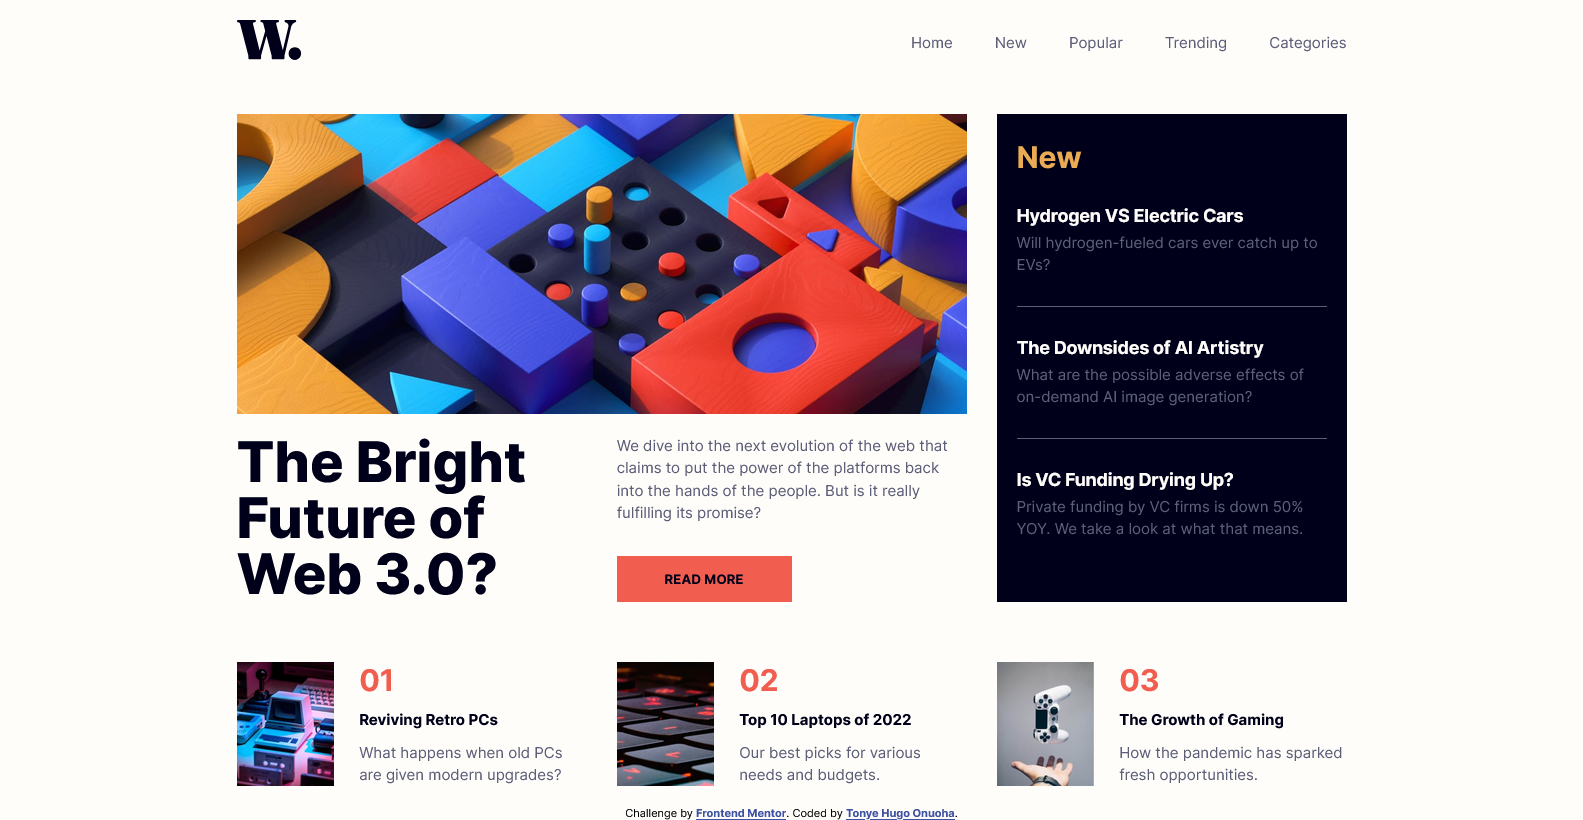
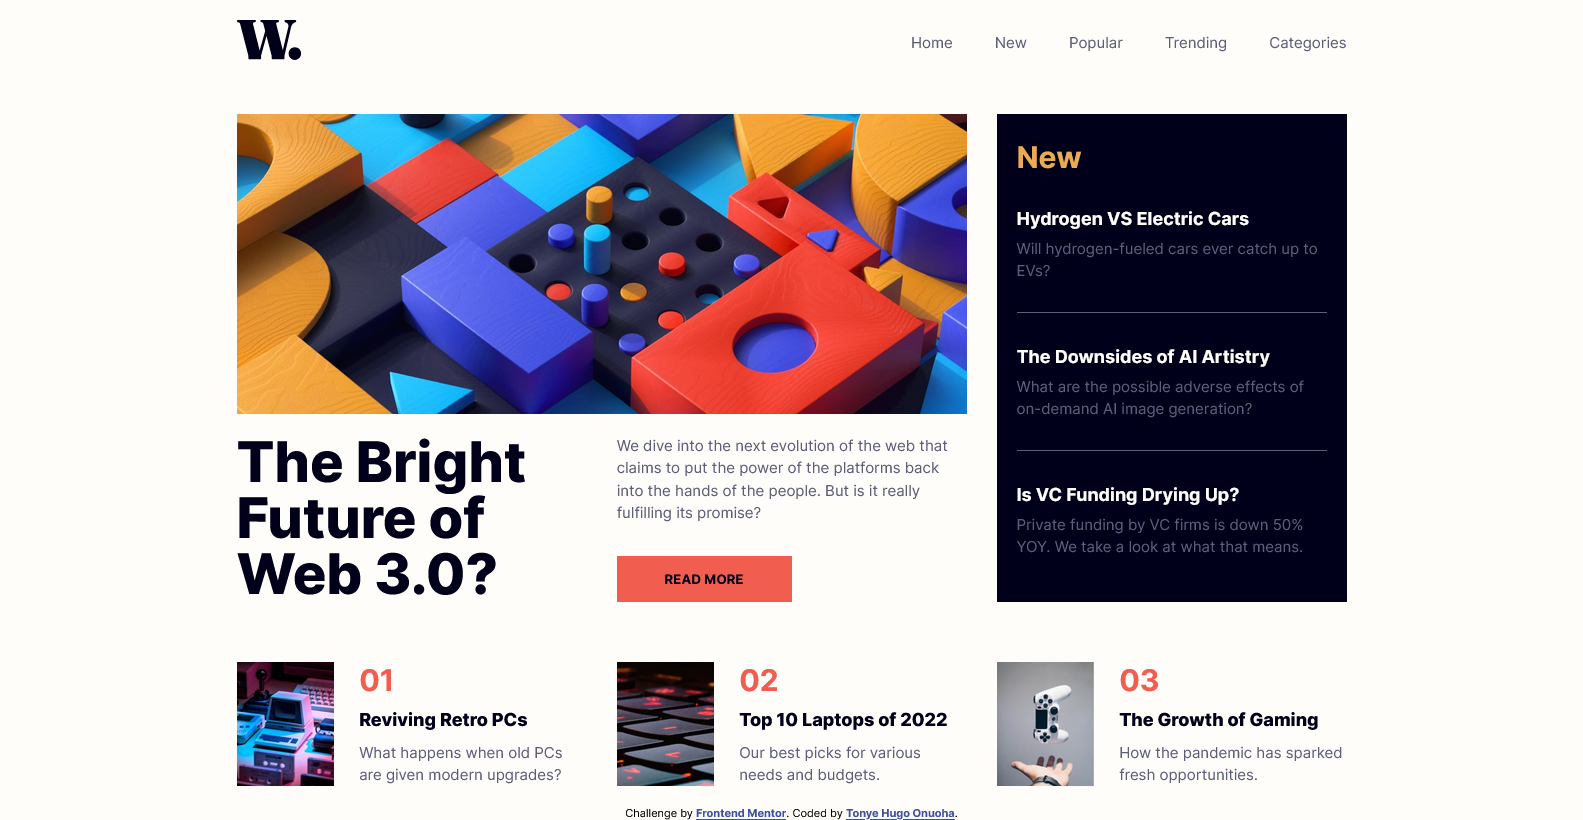
Modified font sizes

diff --git a/index.html b/index.html
@@ -55,7 +55,7 @@
           <div class="web3-image-image-container"></div>
           <div class="main-content-details">
             <div class="main-content-title-container">
-              <h1 class="main-content-title">The Bright Future of Web 3.0?</h1>
+              <p class="main-content-title">The Bright Future of Web 3.0?</p>
             </div>
             <div class="main-content-description">
               <p>
@@ -69,15 +69,15 @@
         <div class="new-content-container">
           <h1 class="new-content-title">New</h1>
           <div class="new-content">
-            <h3 class="new-content-subtitle">Hydrogen VS Electric Cars</h3>
+            <p class="new-content-subtitle">Hydrogen VS Electric Cars</p>
             <p>Will hydrogen-fueled cars ever catch up to EVs?</p>
           </div>
           <div class="new-content">
-            <h3 class="new-content-subtitle">The Downsides of AI Artistry</h3>
+            <p class="new-content-subtitle">The Downsides of AI Artistry</p>
             <p>What are the possible adverse effects of on-demand AI image generation?</p>
           </div>
           <div class="new-content">
-            <h3 class="new-content-subtitle">Is VC Funding Drying Up?</h3>
+            <p class="new-content-subtitle">Is VC Funding Drying Up?</p>
             <p>Private funding by VC firms is down 50% YOY. We take a look at what that means.</p>
           </div>
         </div>
@@ -86,8 +86,8 @@
             <img src="assets/images/image-retro-pcs.jpg" alt="retro pcs" />
           </div>
           <div class="other-content-details">
-            <h1 class="other-heading">01</h1>
-            <h4 class="other-subtitle">Reviving Retro PCs</h4>
+            <h1 class="other-content-heading">01</h1>
+            <p class="other-content-subtitle">Reviving Retro PCs</p>
             <p>What happens when old PCs are given modern upgrades?</p>
           </div>
         </div>
@@ -96,8 +96,8 @@
             <img src="assets/images/image-top-laptops.jpg" alt="top laptops" />
           </div>
           <div class="other-content-details">
-            <h1 class="other-heading">02</h1>
-            <h4 class="other-subtitle">Top 10 Laptops of 2022</h4>
+            <h1 class="other-content-heading">02</h1>
+            <p class="other-content-subtitle">Top 10 Laptops of 2022</p>
             <p>Our best picks for various needs and budgets.</p>
           </div>
         </div>
@@ -106,8 +106,8 @@
             <img src="assets/images/image-gaming-growth.jpg" alt="gaming growth" />
           </div>
           <div class="other-content-details">
-            <h1 class="other-heading">03</h1>
-            <h4 class="other-subtitle">The Growth of Gaming</h4>
+            <h1 class="other-content-heading">03</h1>
+            <p class="other-content-subtitle">The Growth of Gaming</p>
             <p>How the pandemic has sparked fresh opportunities.</p>
           </div>
         </div>

diff --git a/css/styles.css b/css/styles.css
@@ -36,9 +36,6 @@ header {
 }
 
 h1,
-h2,
-h3,
-h4,
 p {
     margin: 0;
 }
@@ -51,10 +48,6 @@ p {
 
 h2 {
     color: hsl(5, 85%, 63%);
-}
-
-h4 {
-    color: hsl(240, 100%, 5%);
 }
 
 .mobile-header {
@@ -98,6 +91,7 @@ h4 {
 }
 
 .main-content-title {
+    font-size: 30px;
     font-weight: 800;
     color: hsl(240, 100%, 5%);
 }
@@ -126,6 +120,8 @@ button {
 
 .new-content-subtitle {
     color: hsl(36, 100%, 99%);
+    font-weight: 700;
+    font-size: 18px;
 }
 
 .new-content {
@@ -163,8 +159,14 @@ img[alt="gaming growth"] {
     justify-content: space-between;
 }
 
-.other-heading {
+.other-content-heading {
     color: hsl(5, 85%, 63%);
+}
+
+.other-content-subtitle {
+    color: hsl(240, 100%, 5%);
+    font-weight: 800;
+    font-size: 18px;
 }
 
 .mobile-menu {
@@ -283,7 +285,7 @@ ul {
         cursor: pointer;
         color: hsl(35, 77%, 62%);
     }
-    .other-subtitle:hover {
+    .other-content-subtitle:hover {
         cursor: pointer;
         color: hsl(5, 85%, 63%);
     }
